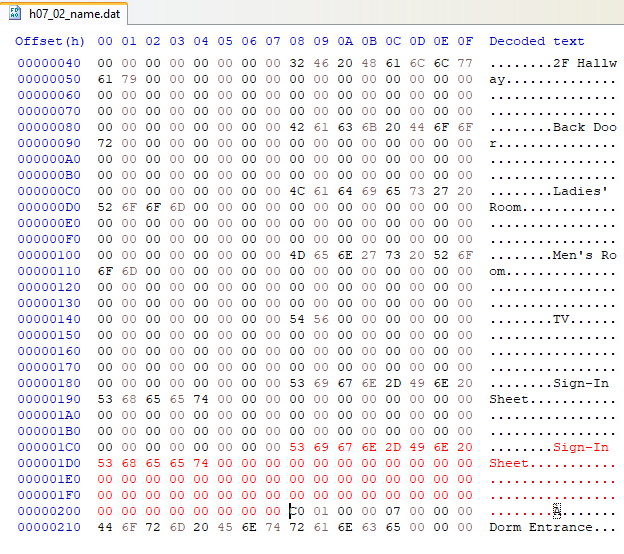
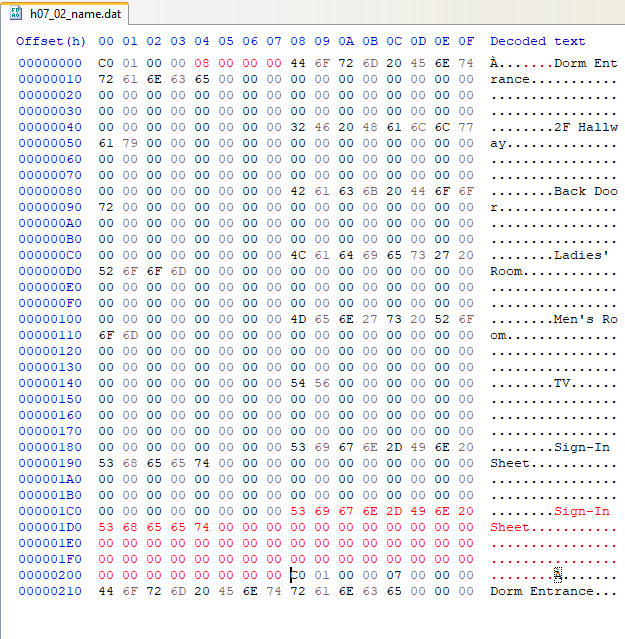
Add Hit Object definition instructions

Changed region(s): [[0.0, 0.0, 1.0, 0.9819]]

diff --git a/binary/field-objects-guides/hit-objects.md b/binary/field-objects-guides/hit-objects.md
@@ -73,7 +73,7 @@ Go to offset `0x1C8`, and paste (Ctrl+V) the bytes we copied. You should now hav
 
 ![]({%link assets/images/binary/field-objects-guides/h07_02_name_copied.png %})
 
-Click at the start of the second `Sign-In Sheet` block which is highlighted in red. Make sure you click inside the "Decoded text" section on the right, as this will allow us to normally type in the text we want to add.
+Click at the start of the first `Sign-In Sheet` block, above the duplicate. Make sure you click inside the "Decoded text" section on the right, as this will allow us to normally type in the text we want to add.
 
 ![]({%link assets/images/binary/field-objects-guides/h07_02_name_copied_clickherebad.png %})
 
@@ -81,8 +81,36 @@ From here, simply write what you want the name of your object to be. For this gu
 
 ![]({%link assets/images/binary/field-objects-guides/h07_02_name_finished.png %})
 
-We have successfully added a new name for our custom Hit Object to use.
+{: .warning}
+> Make sure you are saving your files by navigating to File -> Save As; this ensures you'll keep the original files unmodified, allowing you to more easily go back and start over if you make a mistake.
+
+Save the changes to a new file in a seperate location (see above warning), and we have successfully added a new name for our custom Hit Object to use.
 
 ### Defining our Object
 
-Now, we're going to define what BF procedure and icon our Object should have in-game.
+Now, we're going to define what BF procedure and ID our Object should have in-game. To start, open `h07_02_pck.dat` in HxD. Next, select `0x4` bytes from offset `0x4`, and using the data inspector, edit the value from 7 to 8.
+
+![]({%link assets/images/binary/field-objects-guides/h07_02_pck.png %})
+
+![]({%link assets/images/binary/field-objects-guides/h07_02_pck_editcnt.png %})
+
+Select `0x10` bytes from offset `0x58` as shown below, and copy the selected bytes. Then, paste them directly after the selected bytes. Your view should now look like the second image.
+
+![]({%link assets/images/binary/field-objects-guides/h07_02_pck_copysel.png %})
+
+![]({%link assets/images/binary/field-objects-guides/h07_02_pck_copied.png %})
+
+Next, edit the bytes underlined below so that the values are `06` and `18` respectively. What we're doing here is telling the game that our object has the ID of 6, and that it should call procedure `0x18` (24 in decimal) from the `h07_02.bf` file when interacted with.
+
+![]({%link assets/images/binary/field-objects-guides/h07_02_pck_finished.png %})
+
+Save the file, and we have now defined the Script Procedure and ID of our object.
+
+### Placing our Object
+
+Finally, we are going to specify the position of our custom object in the field. For this guide, we will set our object at the coordinates X:200 Y:200, as a means of both ensuring we can set positions and that we won't possibly place our object right on top of another one accidentally.
+
+
+
+{: .info}
+> If you don't know how to replace files using Persona Essentials, see [the "Replacing Files" page.](/persona-modding-docs/getting-started/replacing-files)
